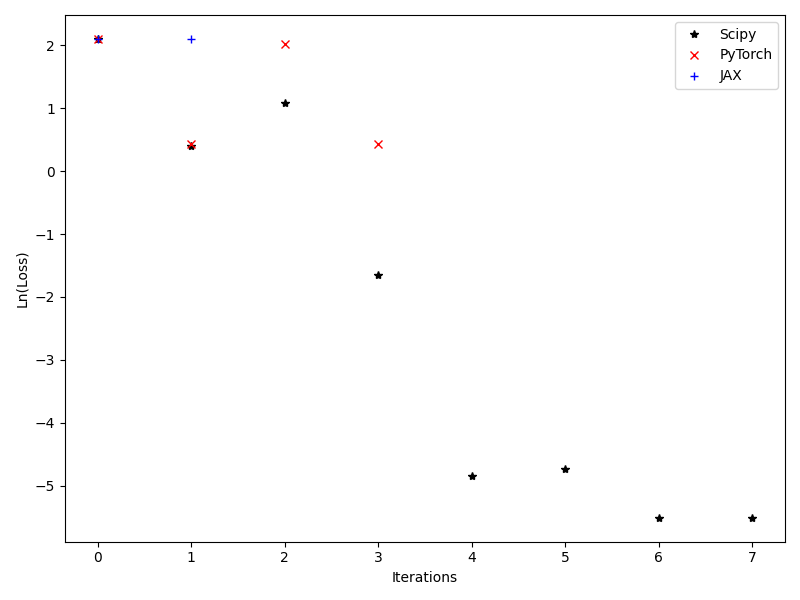
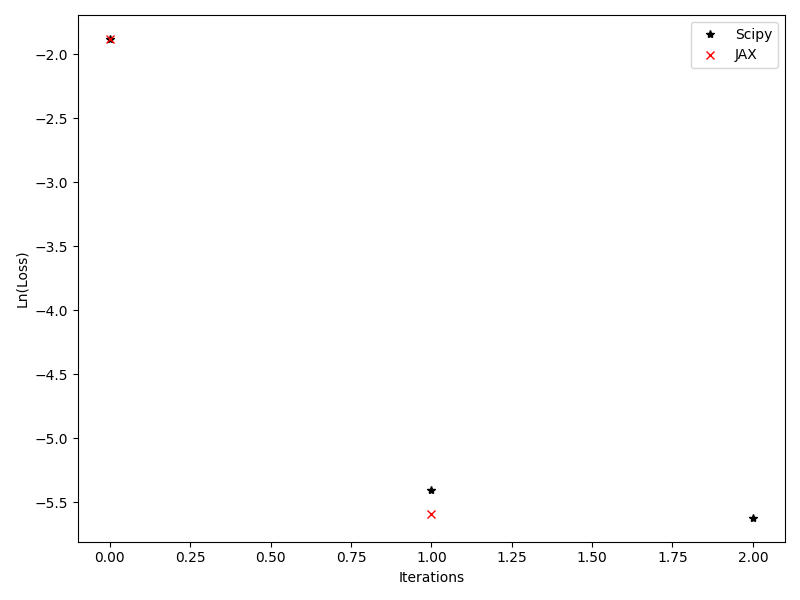
Now doing optimization correctly

diff --git a/main_diffopt.py b/main_diffopt.py
@@ -3,76 +3,94 @@ import numpy as np
 from pathlib import Path
 import matplotlib.pyplot as plt
 from mpl_toolkits.mplot3d import Axes3D
-# import torch
-# torch.set_default_dtype(torch.float64)
 from jax.config import config
+
 config.update("jax_enable_x64", True)
 
-from params_and_model import tmin, tmax, nt, a_initial, initial_conditions, model, solver_models, variables
+from params_and_model import tmin, tmax, nt, a_initial, initial_conditions, model as model_equations, solver_models, variables, label_styles
 from solver import solve_with_scipy, solve_with_pytorch, solve_with_jax
 from optimizers import optimize_with_scipy, optimize_with_pytorch, optimize_with_jax
 
-label_styles = [['k-', 'k*'], ['r--', 'rx'], ['b-.', 'b+']]
 num_functions = len(initial_conditions)
 
+
 def main(results_path='results'):
-    scipy_optimized_a, time_scipy, loss_scipy = optimize_with_scipy(results_path)
-    torch_optimized_a, time_pytorch, loss_pytorch = optimize_with_pytorch(results_path)
-    jax_optimized_a, time_jax, loss_jax = optimize_with_jax(results_path)
+    solve_functions = {
+        "Scipy": solve_with_scipy,
+        "PyTorch": solve_with_pytorch,
+        "JAX": solve_with_jax
+    }
 
-    solve_functions = [
-        solve_with_scipy,
-        lambda a: solve_with_pytorch(a).detach().numpy(),
-        lambda a: solve_with_jax(a).block_until_ready()
-    ]
-    optimized_a = [scipy_optimized_a, torch_optimized_a, jax_optimized_a]
+    selected_solver_models = [model for model in solver_models if model in solve_functions]
+    selected_solve_functions = {model: solve_functions[model] for model in selected_solver_models}
 
-    initial_solutions = [solve_functions[i](a_initial) for i in range(3)]
-    optimized_solutions = [solve_functions[i](optimized_a[i]) for i in range(3)]
+    optimized_a = []
+    time_data = []
+    loss_data = []
+    whole_loss_data = []
+
+    for model in selected_solver_models:
+        if model == "Scipy":
+            optimized_a_scipy, time_scipy, loss_scipy = optimize_with_scipy(results_path)
+            optimized_a.append(optimized_a_scipy)
+            time_data.append(time_scipy)
+            loss_data.append(loss_scipy[-1])
+            whole_loss_data.append(loss_scipy)
+        elif model == "PyTorch":
+            optimized_a_pytorch, time_pytorch, loss_pytorch = optimize_with_pytorch(results_path)
+            optimized_a.append(optimized_a_pytorch)
+            time_data.append(time_pytorch)
+            loss_data.append(loss_pytorch[-1])
+            whole_loss_data.append(loss_pytorch)
+        elif model == "JAX":
+            optimized_a_jax, time_jax, loss_jax = optimize_with_jax(results_path)
+            optimized_a.append(optimized_a_jax)
+            time_data.append(time_jax)
+            loss_data.append(loss_jax[-1])
+            whole_loss_data.append(loss_jax)
+
+    initial_solutions = [selected_solve_functions[model](a_initial) for model in selected_solver_models]
+    optimized_solutions = [selected_solve_functions[model](optimized_a[i]) for i, model in enumerate(selected_solver_models)]
+
     fig, axes = plt.subplots(2, 2, figsize=(12, 10))
     t = np.linspace(tmin, tmax, nt)
 
-    for i in range(4):
-        row = i // 2
-        col = i % 2
-
-        if i < 3:
-            for j in range(len(solver_models)):
-                axes[row, col].plot(t, initial_solutions[j][:, i], label_styles[j][0], label=f'{solver_models[j]} Initial')
-                axes[row, col].plot(t, optimized_solutions[j][:, i], label_styles[j][1], label=f'{solver_models[j]} Optimized')
-
-            axes[row, col].set_xlabel('Time')
-            axes[row, col].set_ylabel(f'{variables[i]}')
-            axes[row, col].legend()
-        else:
-            ax_3d = fig.add_subplot(2, 2, 4, projection='3d')
-            for j in range(len(solver_models)):
-                ax_3d.plot(initial_solutions[j][:, 0],initial_solutions[j][:, 1],initial_solutions[j][:, 2], label_styles[j][0],label=f'{solver_models[j]} Initial')
-                ax_3d.plot(optimized_solutions[j][:, 0],optimized_solutions[j][:, 1],optimized_solutions[j][:, 2], label_styles[j][1],label=f'{solver_models[j]} Optimized')
-            ax_3d.set_xlabel(f'{variables[0]}')
-            ax_3d.set_ylabel(f'{variables[1]}')
-            ax_3d.set_zlabel(f'{variables[2]}')
-            ax_3d.legend()
-
-    # Remove unnecessary axes and spacing
+    for i, ax in enumerate(axes.flat):
+        for j, model in enumerate(selected_solver_models):
+            initial_solutions_val = initial_solutions[j].detach().numpy() if model == 'PyTorch' else initial_solutions[j]
+            optimized_solutions_val = optimized_solutions[j].detach().numpy() if model == 'PyTorch' else optimized_solutions[j]
+            if model_equations == 'Lorenz':
+                i_max = 3
+            elif model_equations == 'guiding-center':
+                i_max = 4
+            if i < i_max:
+                ax.plot(t, initial_solutions_val[:, i], label_styles[j][0], label=f'{model} Initial')
+                ax.plot(t, optimized_solutions_val[:, i], label_styles[j][1], label=f'{model} Optimized')
+                ax.set_xlabel('Time')
+                ax.set_ylabel(f'{variables[i]}')
+                ax.legend()
+            else:
+                if j==0:
+                    ax_3d = fig.add_subplot(2, 2, 4, projection='3d')
+                ax_3d.plot(initial_solutions_val[:, 0], initial_solutions_val[:, 1], initial_solutions_val[:, 2],
+                        label_styles[j][0], label=f'{model} Initial')
+                ax_3d.plot(optimized_solutions_val[:, 0], optimized_solutions_val[:, 1], optimized_solutions_val[:, 2],
+                        label_styles[j][1], label=f'{model} Optimized')
+                ax_3d.set_xlabel(f'{variables[0]}')
+                ax_3d.set_ylabel(f'{variables[1]}')
+                ax_3d.set_zlabel(f'{variables[2]}')
+                ax_3d.legend()
     for ax in axes.ravel():
         if not ax.lines:
             ax.set_visible(False)
         ax.margins(0)
         ax.autoscale(enable=True, axis='x', tight=True)
         ax.autoscale(enable=True, axis='y', tight=True)
-
-    # Adjust spacing and layout
     fig.tight_layout(rect=[0, 0, 1, 0.95])
-
-    # Save the figure
-    plt.savefig(os.path.join(results_path, f'solution_comparison_{model}.png'))
+    plt.savefig(os.path.join(results_path, f'solution_comparison_{model_equations}.png'))
 
     plt.figure(figsize=(8, 6))
-    time_data = [time_scipy, time_pytorch, time_jax]
-    loss_data = [loss_scipy[-1], loss_pytorch[-1], loss_jax[-1]]
     bars = plt.bar(solver_models, time_data)
-    
     for bar, loss in zip(bars, loss_data):
         height = bar.get_height()
         plt.text(bar.get_x() + bar.get_width() / 2, height,
@@ -81,16 +99,29 @@ def main(results_path='results'):
     plt.ylabel('Time (s)')
     plt.title('Optimization Time')
     plt.tight_layout()
-    plt.savefig(os.path.join(results_path, f'optimization_time_{model}.png'))
+    plt.savefig(os.path.join(results_path, f'optimization_time_{model_equations}.png'))
 
     plt.figure(figsize=(8, 6))
-    loss_data = [loss_scipy, loss_pytorch, loss_jax]
-    [plt.plot(np.log(loss_data[i]), label_styles[i][1], label=solver_models[i]) for i in range(len(solver_models))]
+    [plt.plot(np.log(whole_loss_data[i]), label_styles[i][1], label=solver_models[i]) for i in range(len(solver_models))]
     plt.xlabel('Iterations')
     plt.ylabel('Ln(Loss)')
     plt.tight_layout()
     plt.legend()
-    plt.savefig(os.path.join(results_path, f'optimization_loss_{model}.png'))
+    plt.savefig(os.path.join(results_path, f'optimization_loss_{model_equations}.png'))
+
+    if model_equations == 'guiding-center':
+        plt.figure(figsize=(8, 6))
+        for initial_sols, optimized_sols, label, ls in zip(initial_solutions, optimized_solutions, solver_models, label_styles):
+            initial_sols_val = initial_sols.detach().numpy() if label == 'PyTorch' else initial_sols
+            optimized_sols_val = optimized_sols.detach().numpy() if label == 'PyTorch' else optimized_sols
+            plt.plot(np.sqrt(initial_sols_val[:, 0]) * np.cos(initial_sols_val[:, 1]), np.sqrt(initial_sols_val[:, 0]) * np.sin(initial_sols_val[:, 1]), ls[0], label=f'{label} Initial')
+            plt.plot(np.sqrt(optimized_sols_val[:, 0]) * np.cos(optimized_sols_val[:, 1]), np.sqrt(optimized_sols_val[:, 0]) * np.sin(optimized_sols_val[:, 1]), ls[1], label=f'{label} Optimized')
+        plt.xlabel(f'sqrt(psi)*cos(theta)')
+        plt.ylabel(f'sqrt(psi)*sin(theta)')
+        plt.title('ODE Solutions')
+        plt.legend()
+        plt.tight_layout()
+        plt.savefig(os.path.join(results_path, f'initial_vs_optimized_solution_2D_{model}.png'))
 
     print('All figures saved to the results folder.')
 

diff --git a/params_and_model.py b/params_and_model.py
@@ -3,7 +3,7 @@ import numpy as np
 import jax.numpy as jnp
 
 model = 'guiding-center' # 'lorenz' or 'guiding-center'
-solver_models = ["Scipy", "JAX", "PyTorch"] # change here the solvers to compare
+solver_models = ["Scipy", "JAX"]#, "PyTorch"] # change here the solvers to compare
 label_styles = [['k-','k*'], ['r--','rx'], ['b-.','b+']]
 
 # Parameters and initial conditions
@@ -21,13 +21,13 @@ if model == 'lorenz':
     learning_rate_torch = 1.1
     learning_rate_jax = 0.2
 elif model == 'guiding-center':
-    variables = ['psi', 'theta', 'phi', 'v']
+    variables = ['psi', 'theta', 'phi', 'vparallel']
     initial_conditions = [0.4, 1.5, 0.0, -0.2]
     a_initial = [1.0, 0.9, 0.000]  # B0, B1c, B01s
     iota = 0.418
     G = 0.01
     tmin = 0
-    tmax = 10
+    tmax = 5
     nt_per_time_unit = 60
     n_steps_to_compute_loss = 30
     x_target = initial_conditions[0]
@@ -38,8 +38,8 @@ elif model == 'guiding-center':
 
 delta_jacobian_scipy = 1e-5
 tol_optimization = 1e-3
-use_scipy_torch = True
 use_scipy_jax = False
+use_scipy_torch = False
 step_optimization_verbose = True
 
 nt = int(nt_per_time_unit * (tmax - tmin))

diff --git a/optimizers.py b/optimizers.py
@@ -24,10 +24,9 @@ def optimization_function_scipy(objective, method='L-BFGS-B'):
     return minimize(objective, a_initial, jac=True, method=method, options={'maxiter': max_nfev_optimization, 'gtol':tol_optimization}, tol=tol_optimization)
 
 def save_results(losses, parameters, optimized_a, optimizer_name, results_path, time):
-
     plt.figure()
     for i in range(parameters.shape[1]):
-        plt.plot(parameters[:, i]-parameters[0, i], label=f'Param {i+1} - {parameters[0, i]:.2e}')
+        plt.plot(parameters[:, i]-parameters[0, i], label=f'Difference between a[{i}] and {parameters[0, i]:.2e}')
     plt.xlabel('Step')
     plt.ylabel('Parameter - Initial value')
     plt.title(f'{optimizer_name.capitalize()} Optimization: Parameters over steps')

diff --git a/main_odes.py b/main_odes.py
@@ -93,7 +93,7 @@ def main(results_path='results'):
         plt.figure()
         for w_i, label, ls in zip(w_solvers, solver_models, label_styles):
             w_i_val = w_i.detach().numpy() if label == 'PyTorch' else w_i
-            plt.plot(np.sqrt(w_i_val[:, 0]) * np.cos(w_i_val[:, 1]), np.sqrt(w_i_val[:, 0]) * np.sin(w_i_val[:, 1]), ls[0], label=f'{label} {func}')
+            plt.plot(np.sqrt(w_i_val[:, 0]) * np.cos(w_i_val[:, 1]), np.sqrt(w_i_val[:, 0]) * np.sin(w_i_val[:, 1]), ls[0], label=f'{label}')
         plt.xlabel(f'sqrt(psi)*cos(theta)')
         plt.ylabel(f'sqrt(psi)*sin(theta)')
         plt.title('ODE Solutions')
